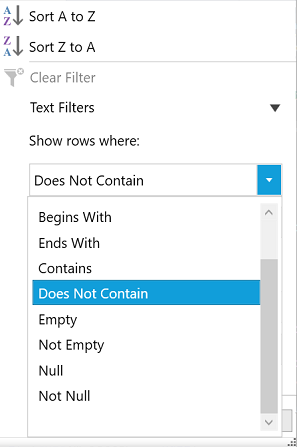
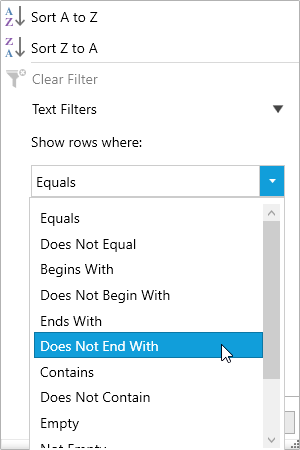
WPF-49833 - Update UG for include "NotBeginWith and NotEndsWith" option in filter

diff --git a/wpf/DataGrid/Filtering.md b/wpf/DataGrid/Filtering.md
@@ -279,7 +279,9 @@ When the DateTime type value is bound to the {{ '[GridColumn](http://help.syncfu
 <li>Equals</li>
 <li>Does Not Equal</li>
 <li>Begins With</li> 
+<li>Does Not Begin With</li> 
 <li>Ends With</li> 
+<li>Does Not End With</li>
 <li>Contains</li> 
 <li>Does Not Contain</li>
 <li>Empty</li> 

diff --git a/wpf/DataGrid/FilterRow.md b/wpf/DataGrid/FilterRow.md
@@ -235,7 +235,9 @@ The default filter condition is Begins With, the below filter conditions are ava
 <li>Null</li> 
 <li>Not Null</li> 
 <li>Begins With</li>
+<li>Does Not Begin With</li>
 <li>Ends With</li>
+<li>Does Not End With</li>
 <li>Contains</li>
 <li>Does Not Contain</li>
 <li>Empty</li>
